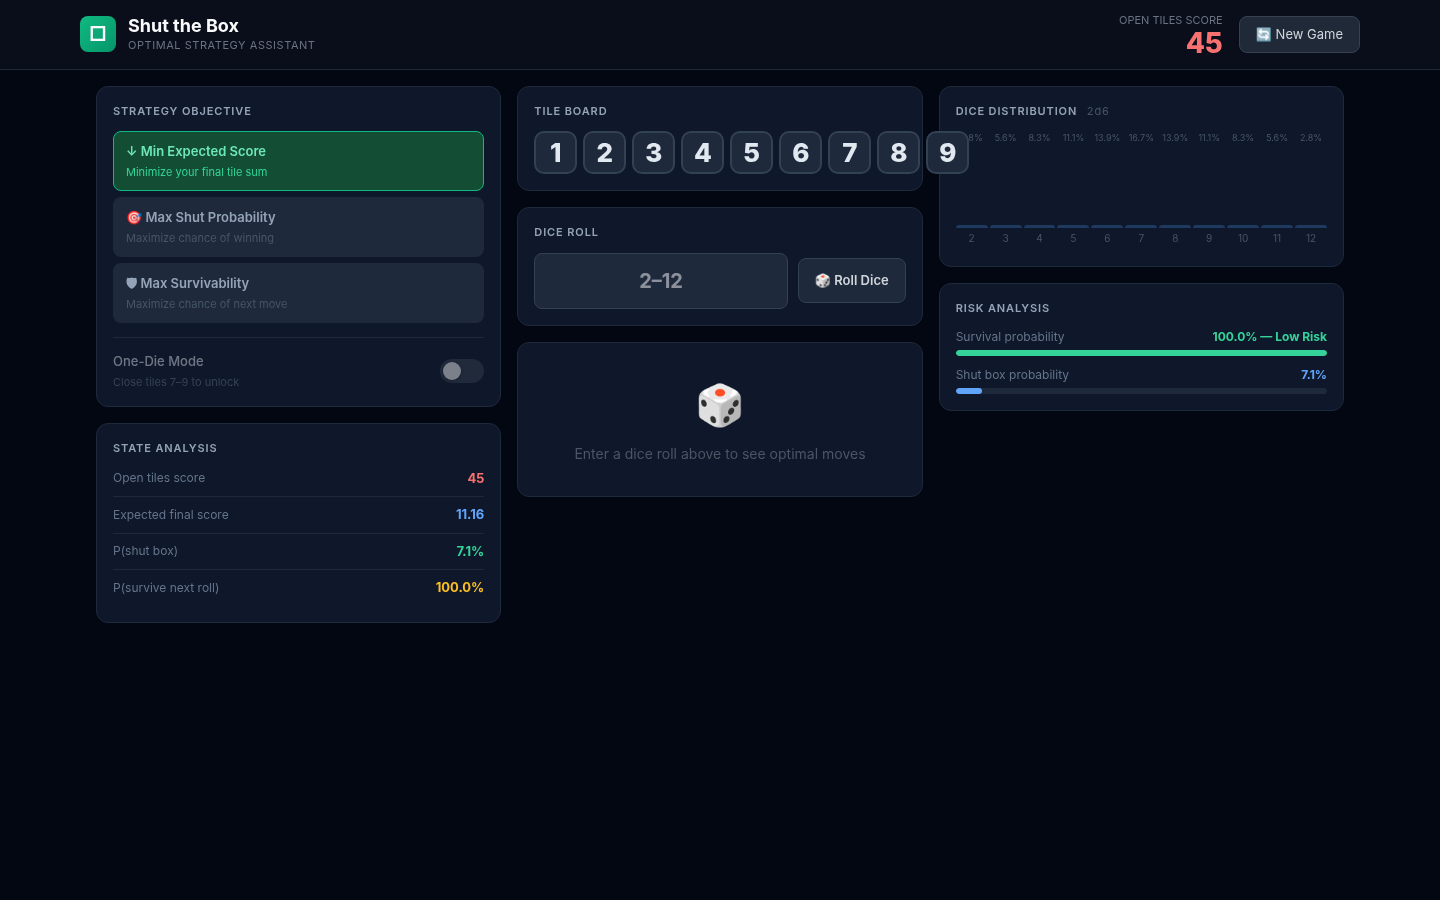
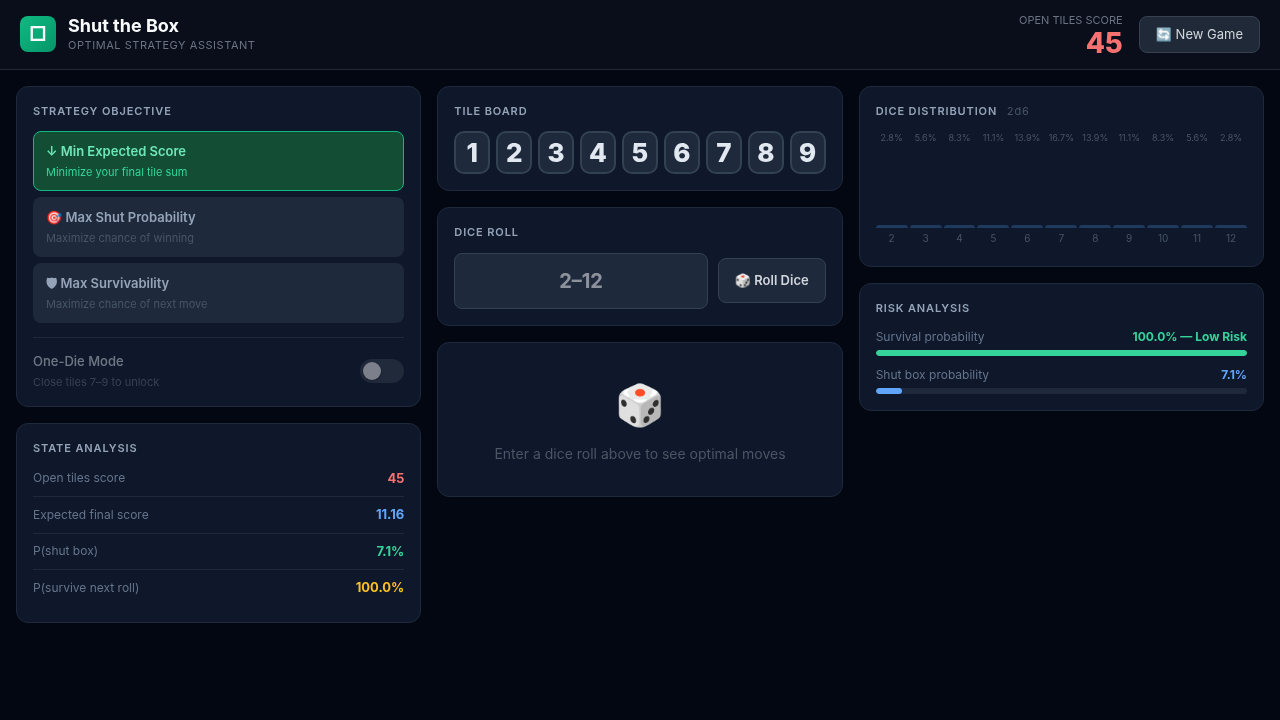
fix: repair repo hygiene and tile board layout

diff --git a/src/main.ts b/src/main.ts
@@ -235,7 +235,7 @@ function tileGrid(): string {
     return `
       <button data-tile="${t}" ${extra}
         style="aspect-ratio:1;border-radius:10px;border:2px solid ${border};background:${bg};color:${color};
-               font-size:clamp(18px,3vw,26px);font-weight:800;cursor:pointer;
+               min-width:0;width:100%;font-size:clamp(18px,3vw,26px);font-weight:800;cursor:pointer;
                transition:all 0.15s;display:flex;align-items:center;justify-content:center;
                ${isOpen ? 'transform:scale(1)' : ''}">
         ${content}
@@ -253,7 +253,7 @@ function tileGrid(): string {
         ${isShut ? '<div style="padding:4px 12px;background:#064e3b;border:1px solid #10b981;border-radius:20px;color:#34d399;font-size:12px;font-weight:700">🎉 BOX SHUT!</div>' : ''}
         ${isStuck ? '<div style="padding:4px 12px;background:#450a0a;border:1px solid #dc2626;border-radius:20px;color:#fca5a5;font-size:12px;font-weight:700">❌ No Valid Moves</div>' : ''}
       </div>
-      <div style="display:grid;grid-template-columns:repeat(9,1fr);gap:6px">
+      <div style="display:grid;grid-template-columns:repeat(9,minmax(0,1fr));gap:6px">
         ${tiles}
       </div>
       ${optimalMask !== 0 ? '<p style="font-size:11px;color:#34d399;text-align:center;margin-top:10px;margin-bottom:0;opacity:0.8">Glowing tiles = optimal move</p>' : ''}